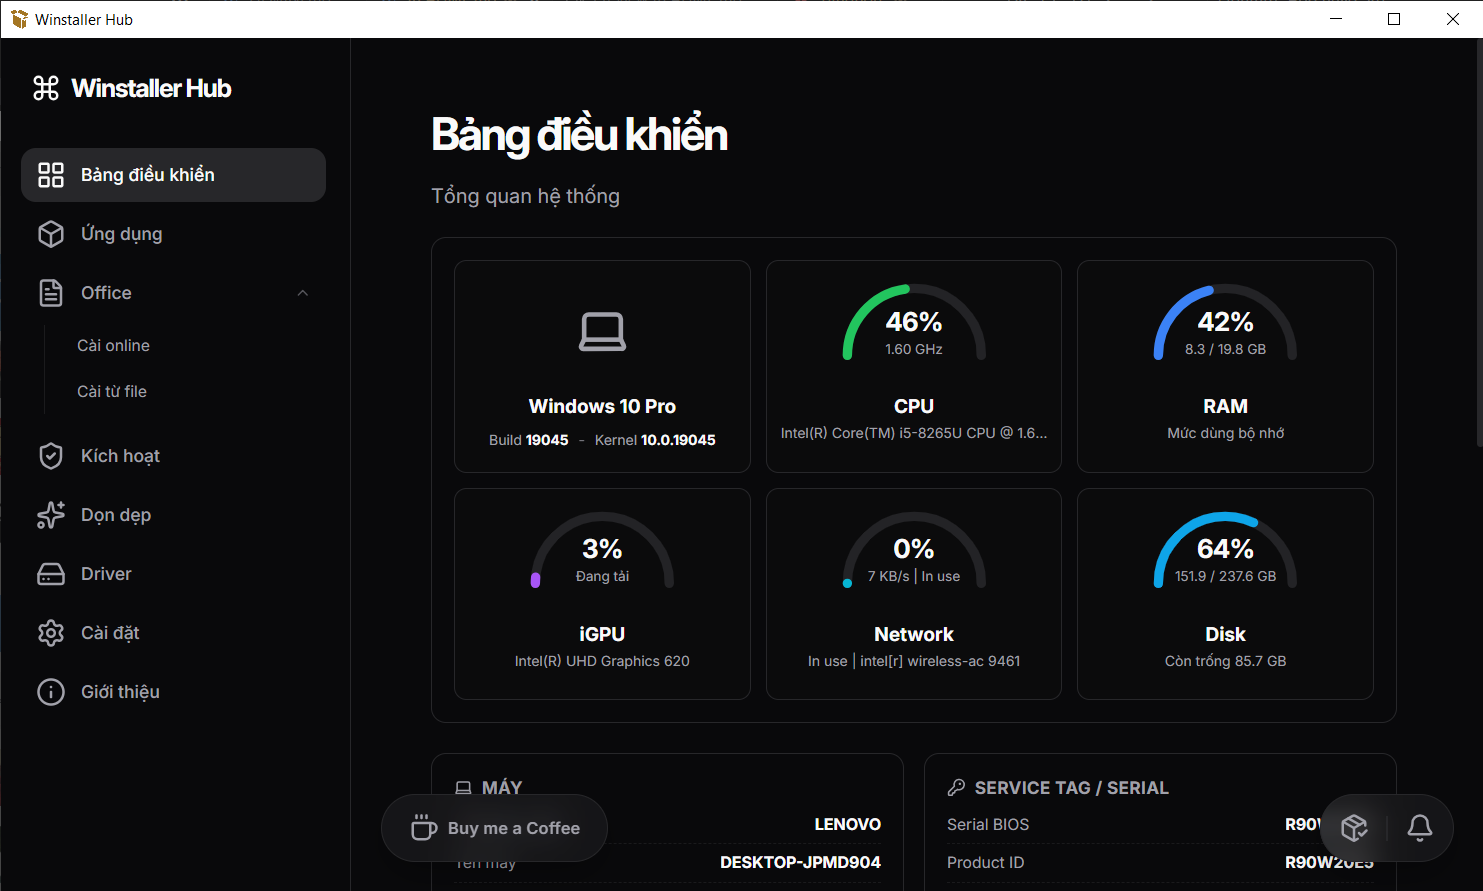
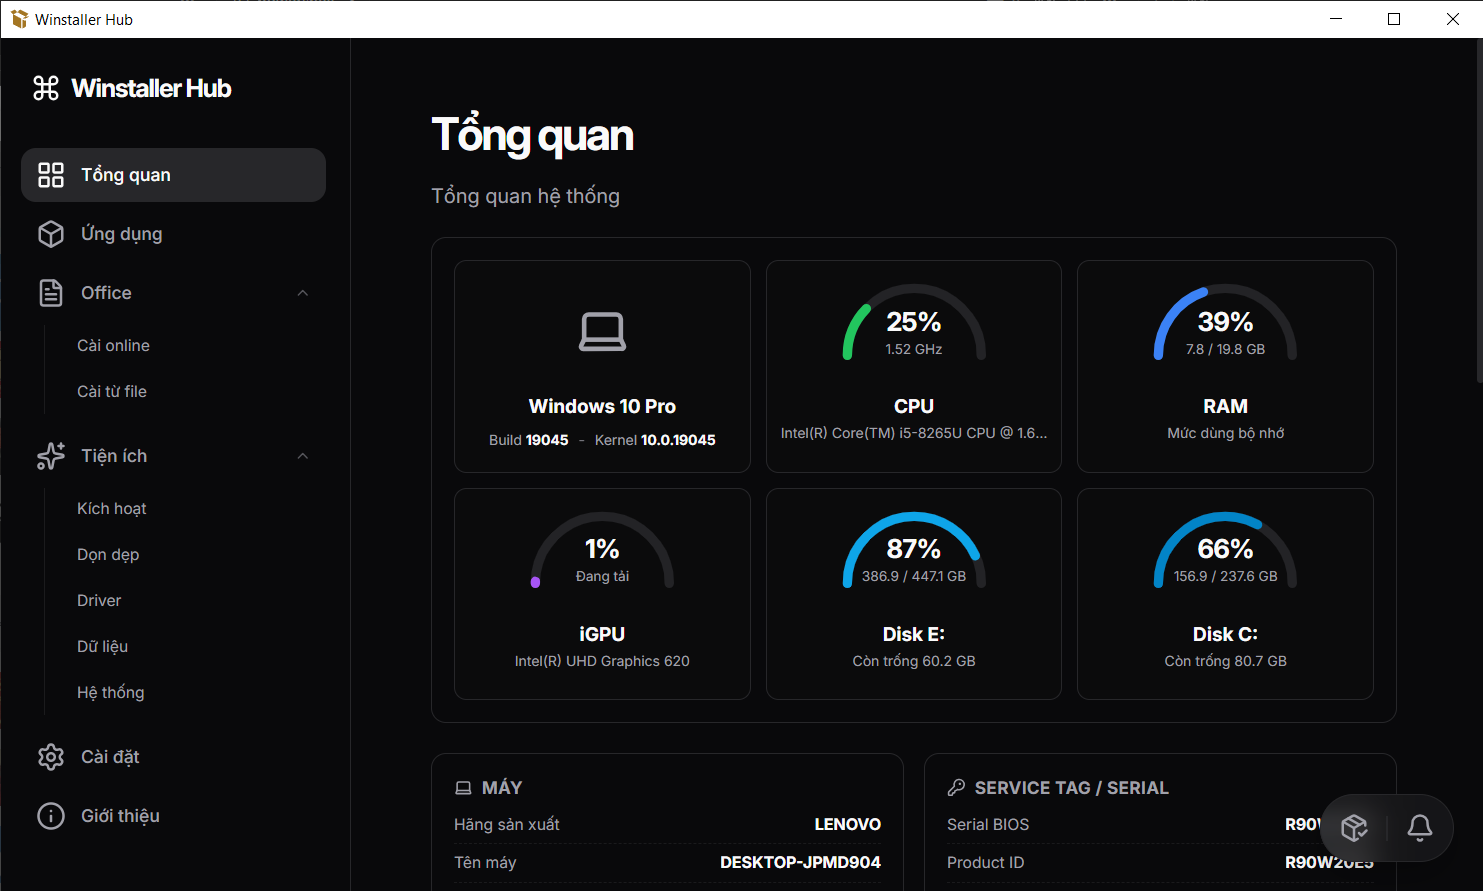
Update README

diff --git a/README.md b/README.md
@@ -22,10 +22,12 @@
 - **Clean Office**: Gỡ bỏ hoàn toàn các phiên bản Office cũ trước khi cài mới để tránh xung đột
 
 ### Tiện ích
-- **Xem thông tin**: Xem được thông tin thiết bị, độ chai pin, sức khỏe ổ cứng
-- **Kích hoạt bản quyền**: Tích hợp công cụ MAS của massgrave.dev giúp kích hoạt Windows/Office nhanh chóng
-- **Cleanup**: Dọn dẹp RAM, dọn dẹp thùng rác, dọn dẹp temp
+- **Xem thông tin**: Xem thông tin máy tính, độ chai pin, thông tin ổ cứng
+- **Kích hoạt bản quyền**: Công cụ kích của Microsoft và massgrave.dev
+- **Cleanup**: Dọn dẹp RAM, dọn dẹp file tạm, dọn dẹp ổ đĩa hệ thống
 - **Drivers**: Sao lưu và khôi phục các driver trên máy tính
+- **Data**: Sao lưu và khôi phục các folder dữ liệu
+- **System**: Các công cụ hệ thống
 
 ## Hướng dẫn sử dụng
 
